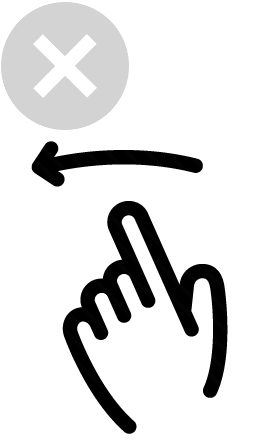
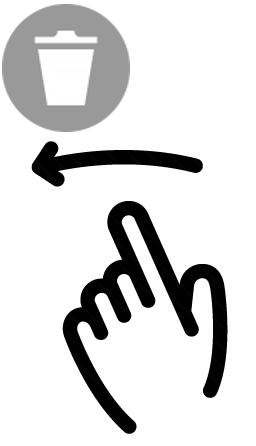
Like dislike optimization

Changed region(s): [[0.0, 0.0, 0.5312, 0.3206]]

diff --git a/public/css/style.css b/public/css/style.css
@@ -147,11 +147,11 @@ input[type="checkbox"] { -webkit-appearance: checkbox; }
 .popup .single-event .info a { text-decoration: none; font-weight: bold; color: #0e7d8e; }
 
 .like-dislike { position: relative; top: 10px; }
-.like-dislike .dislike, .like-dislike .like { text-decoration: none; }
+.like-dislike .dislike, .like-dislike .like { text-decoration: none; color: #212021; }
 .like-dislike .dislike { float: left; }
 .like-dislike .like { float: right; margin-right: -10px; }
 .like-dislike .icon { background-repeat: no-repeat; background-position: center; background-size: 18px; border-radius: 50%; width: 32px; height: 32px; display: inline-block; }
-.like-dislike .dislike .icon { background-image: url(../img/trash_white.png); background-color: #666; }
+.like-dislike .dislike .icon { background-image: url(../img/trash_white.png); background-color: #999; }
 .like-dislike .like .icon { background-image: url(../img/heart_white.png); background-color: #BE2625; }
 .like-dislike .num { background: #fac831; border-radius: 50%; font-size: 12px; width: 18px; height: 18px; position: relative; top: -25px; right: 12px; display: inline-block; text-align: center; font-style: normal; font-weight: bold; line-height: 1.4; }
 

diff --git a/public/css/scss/app/components/_like_dislike.scss b/public/css/scss/app/components/_like_dislike.scss
@@ -7,7 +7,10 @@
 	position: relative;
 	top: 10px;
 
-	.dislike, .like { text-decoration: none; }
+	.dislike, .like {
+		text-decoration: none;
+		color: $black;
+	}
 
 	// DISLIKE
 	.dislike {
@@ -34,7 +37,7 @@
 	// DISLIKE ICON
 	.dislike .icon {
 		background-image: url(../img/trash_white.png);
-		background-color: $darkGrey;
+		background-color: $mediumDarkGrey;
 	}
 
 	// LIKE ICON

diff --git a/public/js/app.min.js b/public/js/app.min.js
@@ -8036,8 +8036,6 @@ function userInitialManagement() {
 			if (response.success) {
 				userId = response.userId;
 				Cookies.set('userId', userId);
-			} else {
-				alert('There was an error creating the user');
 			}
 
 		});

diff --git a/public/js/src/app/user.js b/public/js/src/app/user.js
@@ -25,8 +25,6 @@ function userInitialManagement() {
 			if (response.success) {
 				userId = response.userId;
 				Cookies.set('userId', userId);
-			} else {
-				alert('There was an error creating the user');
 			}
 
 		});

diff --git a/public/css/scss/app/abstracts/_colors.scss b/public/css/scss/app/abstracts/_colors.scss
@@ -8,6 +8,7 @@
 $white: #ffffff;
 $lightGrey: #f6f6f6;
 $mediumGrey: #e6e6e6;
+$mediumDarkGrey: #999;
 $darkGrey: #666;
 $black: #212021;
 $blueBg: #0e7d8e;

diff --git a/resources/views/partials/like-dislike.blade.php b/resources/views/partials/like-dislike.blade.php
@@ -10,7 +10,7 @@
         <!-- LIKE -->
         <a class="like" href="#">
             <i class="icon"></i>
-            <i class="num">10</i>
+            <i class="num">0</i>
         </a>
     </div>
 </div>
